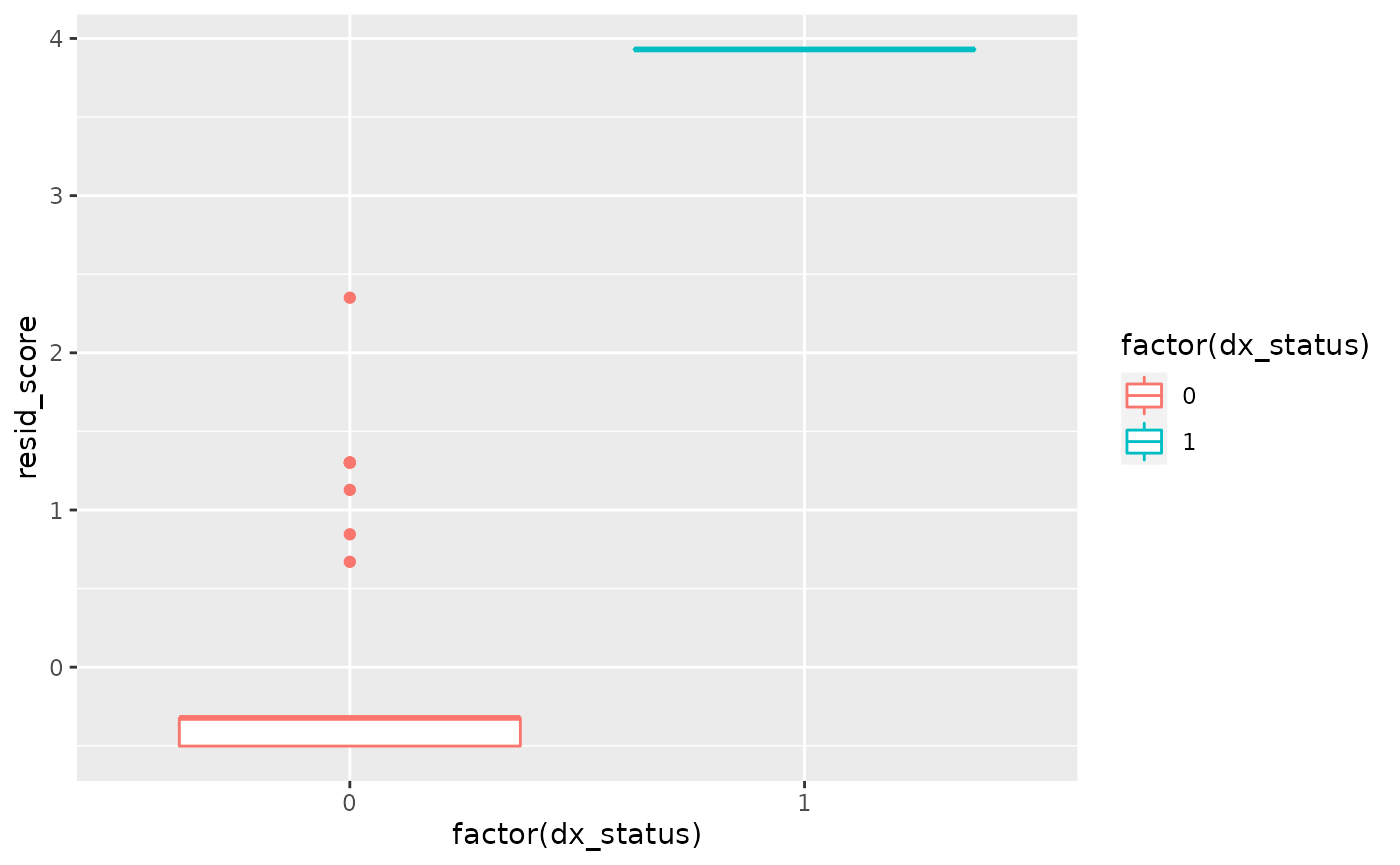
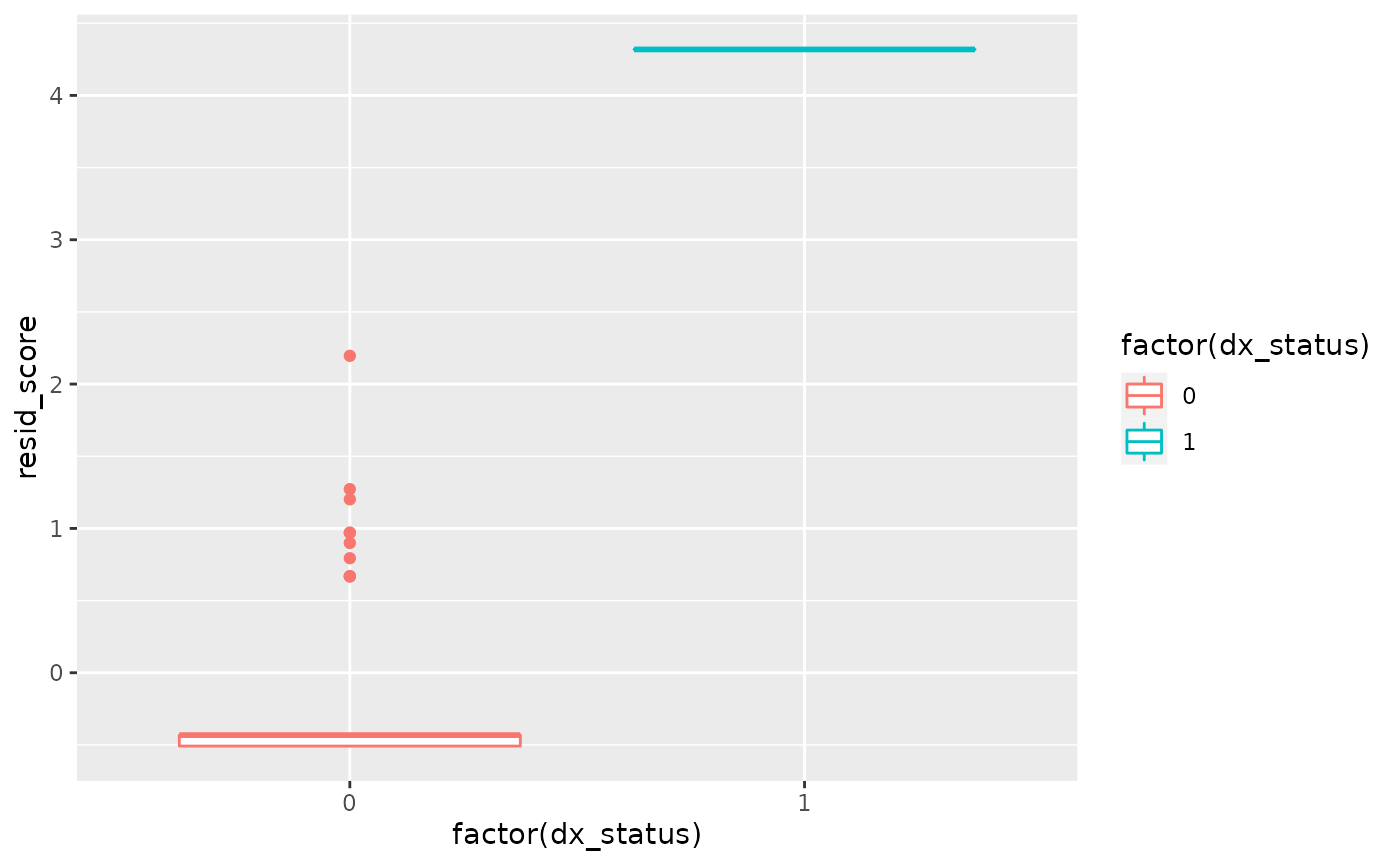
Built site for phers: 0.0.0.9000@36bd247

diff --git a/articles/generate_phers.html b/articles/generate_phers.html
@@ -142,28 +142,28 @@
 <span class="va">genoStats</span> <span class="op">=</span> <span class="fu"><a href="https://Rdatatable.gitlab.io/data.table/reference/merge.html" class="external-link">merge</a></span><span class="op">(</span><span class="va">geneVarMap</span><span class="op">[</span>, <span class="fu">.</span><span class="op">(</span><span class="va">gene</span>, <span class="va">vid</span><span class="op">)</span><span class="op">]</span>, <span class="va">genoStats</span>, by <span class="op">=</span> <span class="st">'vid'</span><span class="op">)</span>
 
 <span class="va">genoStats</span>
-<span class="co">#&gt;       vid gene disease_id n_total n_wt n_het n_hom       beta        se</span>
-<span class="co">#&gt;  1:  snp1 FBN1     154700      50   45     5     0 -0.6152715 0.7086354</span>
-<span class="co">#&gt;  2: snp10 FBN1     154700      50   38    11     1  0.6410347 0.4492608</span>
-<span class="co">#&gt;  3:  snp2 FBN1     154700      50   39     8     3 -0.3593787 0.3742077</span>
-<span class="co">#&gt;  4:  snp3 FBN1     154700      50   42     8     0 -0.5187028 0.5794899</span>
-<span class="co">#&gt;  5:  snp4 FBN1     154700      50   40    10     0  0.4156610 0.5322799</span>
-<span class="co">#&gt;  6:  snp5 FBN1     154700      50   44     6     0 -0.7562224 0.6575724</span>
-<span class="co">#&gt;  7:  snp6 FBN1     154700      50   45     5     0 -0.6152715 0.7086354</span>
-<span class="co">#&gt;  8:  snp7 FBN1     154700      50   40    10     0  0.9821190 0.5230594</span>
-<span class="co">#&gt;  9:  snp8 FBN1     154700      50   40    10     0 -0.1689209 0.5417624</span>
-<span class="co">#&gt; 10:  snp9 FBN1     154700      50   39     9     2 -0.1066754 0.4111227</span>
-<span class="co">#&gt;           pval    ci_lower  ci_upper</span>
-<span class="co">#&gt;  1: 0.38967037 -2.00417139 0.7736285</span>
-<span class="co">#&gt;  2: 0.16022860 -0.23950038 1.5215697</span>
-<span class="co">#&gt;  3: 0.34178267 -1.09281232 0.3740549</span>
-<span class="co">#&gt;  4: 0.37529373 -1.65448218 0.6170766</span>
-<span class="co">#&gt;  5: 0.43877302 -0.62758848 1.4589105</span>
-<span class="co">#&gt;  6: 0.25595316 -2.04504065 0.5325959</span>
-<span class="co">#&gt;  7: 0.38967037 -2.00417139 0.7736285</span>
-<span class="co">#&gt;  8: 0.06664314 -0.04305858 2.0072966</span>
-<span class="co">#&gt;  9: 0.75657246 -1.23075568 0.8929140</span>
-<span class="co">#&gt; 10: 0.79640313 -0.91246106 0.6991102</span></code></pre></div>
+<span class="co">#&gt;       vid gene disease_id n_total n_wt n_het n_hom        beta        se</span>
+<span class="co">#&gt;  1:  snp1 FBN1     154700      50   45     5     0 -0.75399316 0.7194273</span>
+<span class="co">#&gt;  2: snp10 FBN1     154700      50   38    11     1  0.49184875 0.4620172</span>
+<span class="co">#&gt;  3:  snp2 FBN1     154700      50   39     8     3 -0.24116536 0.3833869</span>
+<span class="co">#&gt;  4:  snp3 FBN1     154700      50   42     8     0  0.01939549 0.5954381</span>
+<span class="co">#&gt;  5:  snp4 FBN1     154700      50   40    10     0  0.30284447 0.5440486</span>
+<span class="co">#&gt;  6:  snp5 FBN1     154700      50   44     6     0 -0.44602905 0.6762293</span>
+<span class="co">#&gt;  7:  snp6 FBN1     154700      50   45     5     0 -0.75399316 0.7194273</span>
+<span class="co">#&gt;  8:  snp7 FBN1     154700      50   40    10     0  0.57128563 0.5462446</span>
+<span class="co">#&gt;  9:  snp8 FBN1     154700      50   40    10     0 -0.36354783 0.5500137</span>
+<span class="co">#&gt; 10:  snp9 FBN1     154700      50   39     9     2  0.08779101 0.4189910</span>
+<span class="co">#&gt;          pval   ci_lower  ci_upper</span>
+<span class="co">#&gt;  1: 0.2999770 -2.1640447 0.6560584</span>
+<span class="co">#&gt;  2: 0.2925102 -0.4136883 1.3973858</span>
+<span class="co">#&gt;  3: 0.5323691 -0.9925900 0.5102592</span>
+<span class="co">#&gt;  4: 0.9741527 -1.1476418 1.1864328</span>
+<span class="co">#&gt;  5: 0.5804078 -0.7634711 1.3691601</span>
+<span class="co">#&gt;  6: 0.5127409 -1.7714141 0.8793560</span>
+<span class="co">#&gt;  7: 0.2999770 -2.1640447 0.6560584</span>
+<span class="co">#&gt;  8: 0.3009830 -0.4993341 1.6419054</span>
+<span class="co">#&gt;  9: 0.5118526 -1.4415549 0.7144593</span>
+<span class="co">#&gt; 10: 0.8349404 -0.7334162 0.9089982</span></code></pre></div>
 <p>run positive control analysis</p>
 <div class="sourceCode" id="cb4"><pre class="downlit sourceCode r">
 <code class="sourceCode R"><span class="va">dxStatus</span> <span class="op">=</span> <span class="fu"><a href="../reference/getDxStatus.html">getDxStatus</a></span><span class="op">(</span><span class="va">demoSample</span>, <span class="va">icdSample</span><span class="op">)</span>
